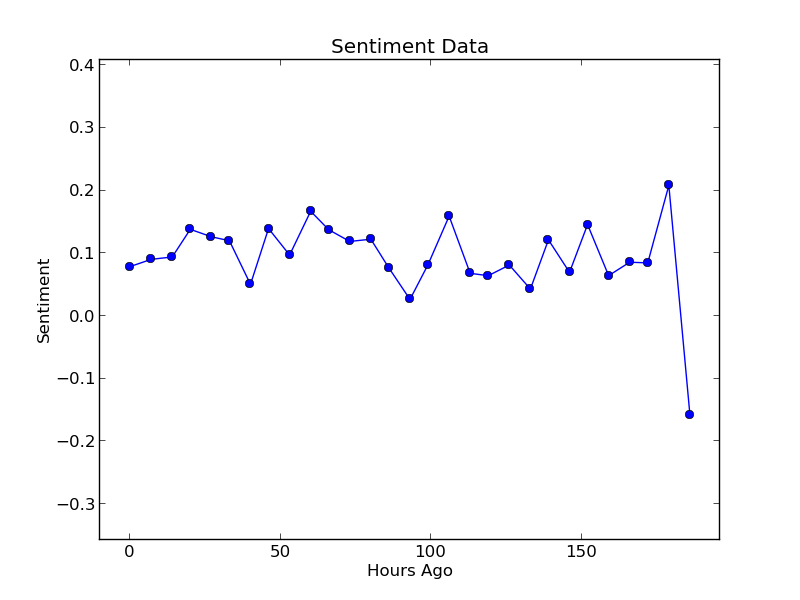
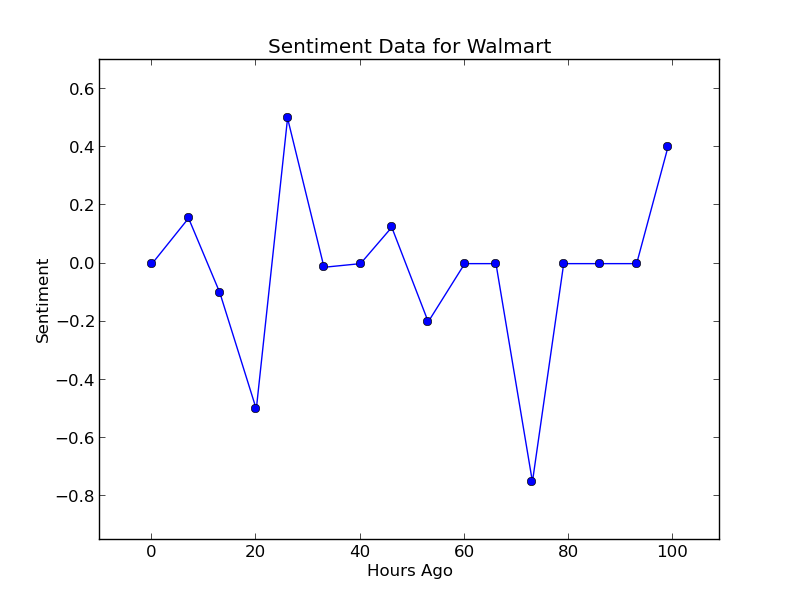
Finally maybe might just maybe work

diff --git a/Model/sentimentAnalysis.py b/Model/sentimentAnalysis.py
@@ -57,13 +57,15 @@ def twitter_sentiment_average(company):
         try:
             count = 0
             totSentiment = 0
-            if t.search(company, start=i, count=1)==[]:
+            tweets = t.search(company, start=i, count=100)
+            if tweets == []:
                 raise SystemExit("Sorry, your company doesn't have any recent tweets") #break the try except statement
-            for tweet in t.search(company, start=i, count=100):
-                count+=1
-                date = unicode_tweet_date_reformat(tweet.date)
-                totSentimentTemp = sentiment(tweet.text)
-                totSentiment += totSentimentTemp[0]
+            else:
+                for tweet in tweets:
+                    count+=1
+                    date = unicode_tweet_date_reformat(tweet.date)
+                    totSentimentTemp = sentiment(tweet.text)
+                    totSentiment += totSentimentTemp[0]
             dates.append(date)
             output[date] = totSentiment/count
             i = unicode(int(i)-100000000000000) #look further back in twitter's archive
@@ -87,7 +89,7 @@ def savefig_twitter_average(company):
         pass
     pyl.xlabel('Hours Ago')
     pyl.ylabel('Sentiment')
-    pyl.title('Sentiment Data')
+    pyl.title('Sentiment Data for '+company)
     try:
         pyl.savefig('static/sentiment.png')
     except:
@@ -148,4 +150,4 @@ def reformatted_date_subtraction(current_date, prev_date):
     
 
 if __name__ == '__main__':
-    savefig_twitter_average('walmart')
+    savefig_twitter_average('Walmart')

diff --git a/website.py b/website.py
@@ -8,6 +8,7 @@ Created on Thu Apr 10 16:13:27 2014
 from pattern.web import *
 from pattern.en import *
 from Model.symbolToName import get_company_name
+from Model.sentimentAnalysis import savefig_twitter_average
 from flask import Flask, render_template, request, redirect
 #from Model.stocks import db
 
@@ -27,10 +28,12 @@ def search():
     try:
         company_name = get_company_name(search)
         search=search.upper()
+        savefig_twitter_average(company_name)
     except:
         company_name = 'AAAAAAAAAAAAAAAAA'
         #return redirect('/error')
         pass
+    print company_name
     return render_template('sentiment.html', company_name=company_name, search=search)
     
 @app.route('/about', methods = ['POST', 'GET'])
